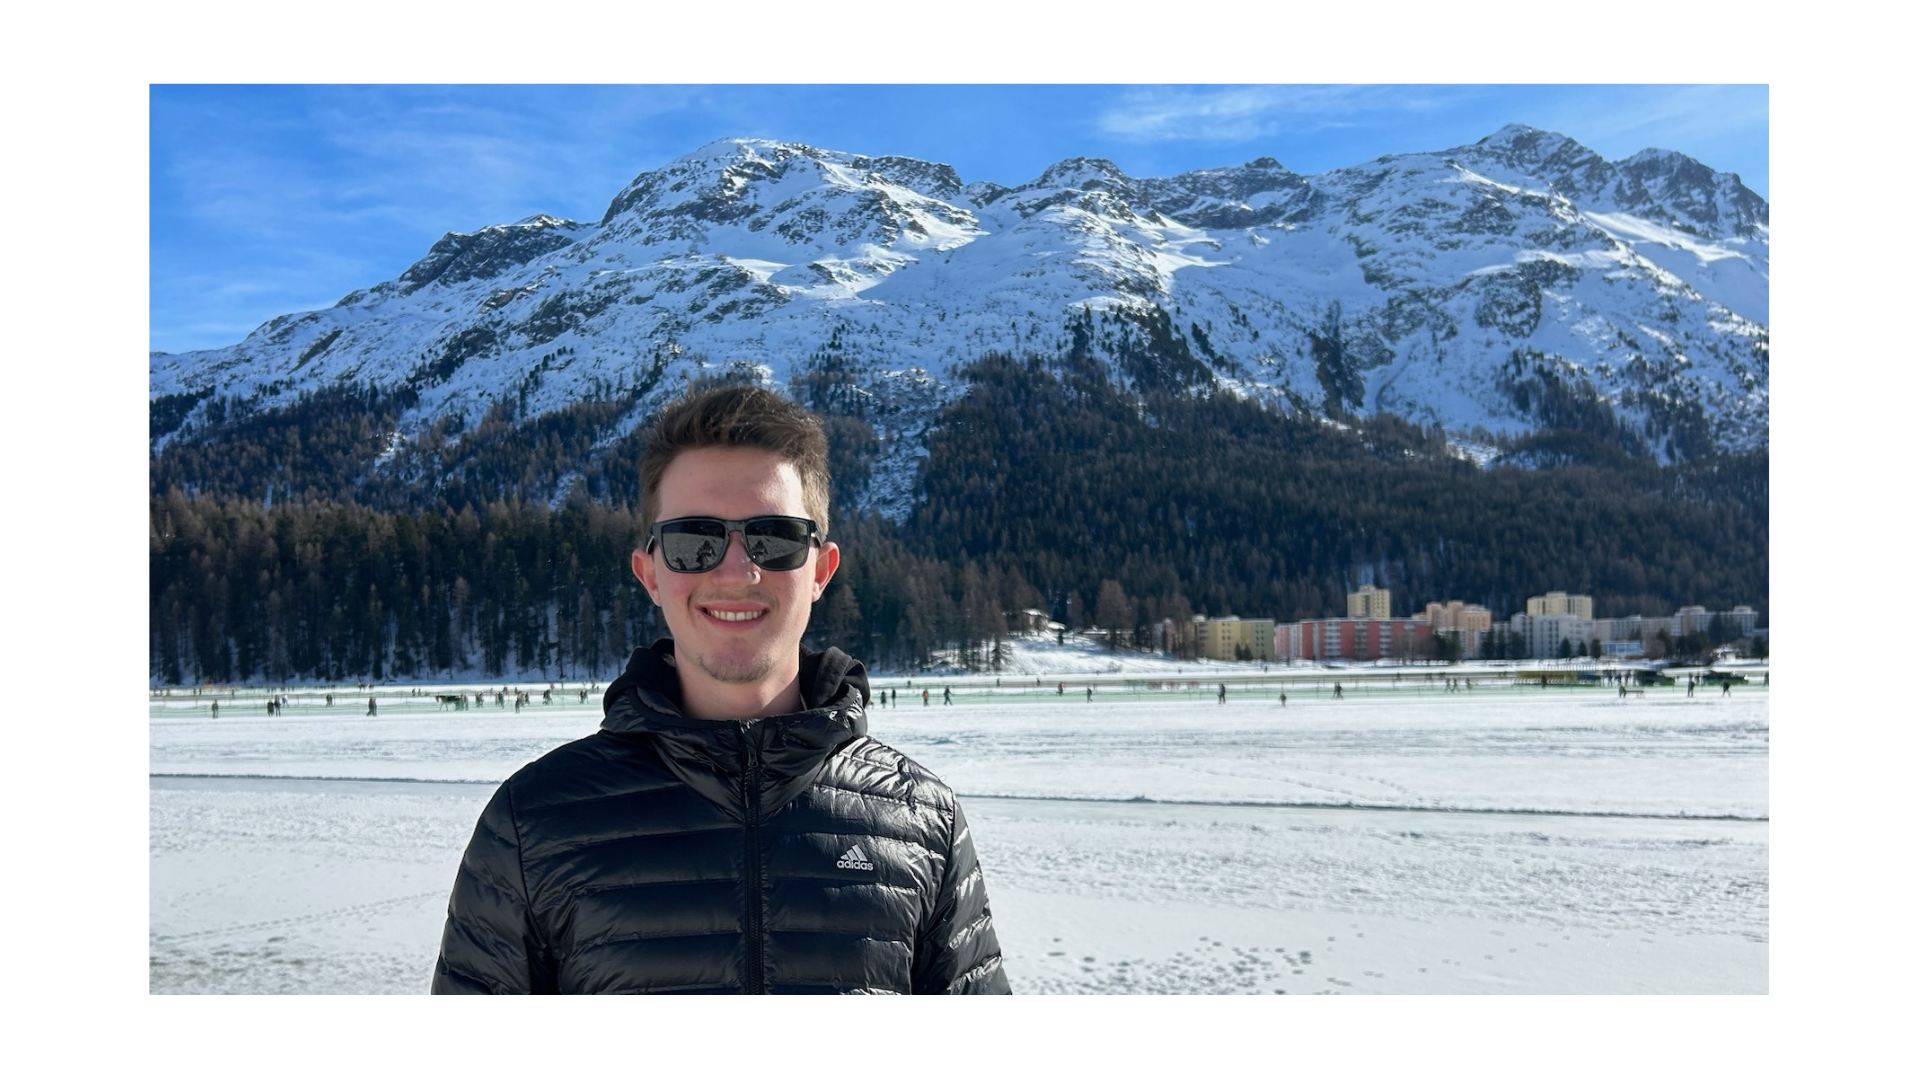
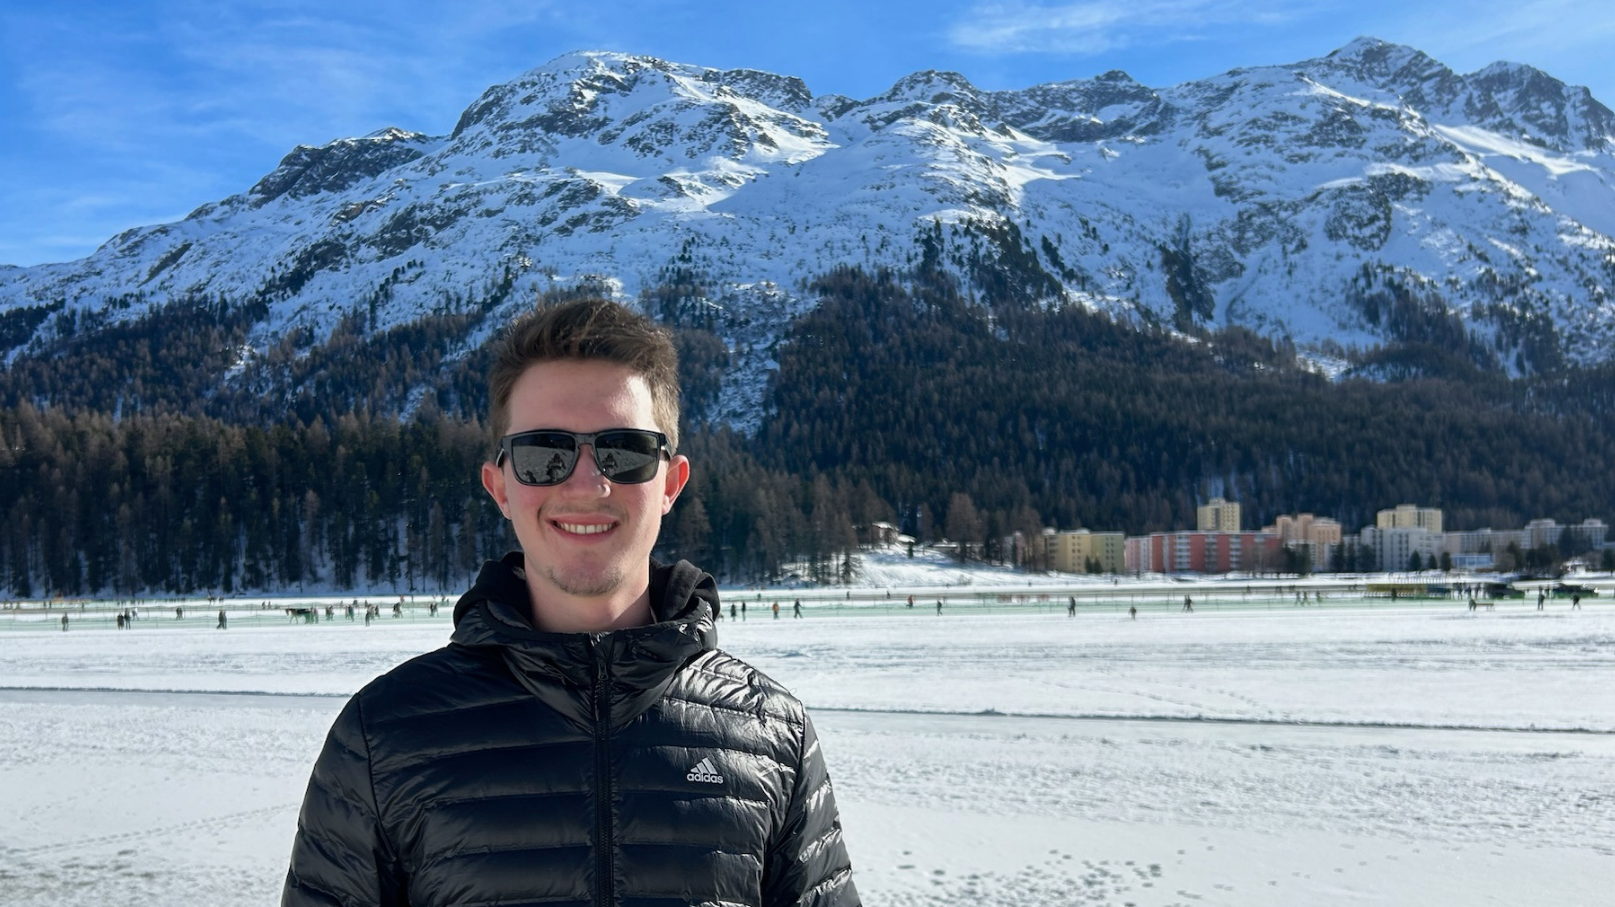
Alteracoes minimas

diff --git a/assets/css/styles.css b/assets/css/styles.css
@@ -12,7 +12,7 @@ body {
     overflow-x: hidden;
 }
 
-/* Cabeçalho fixo e responsivo */
+/* Cabeçalho fixo */
 header {
     position: fixed;
     top: 0;
@@ -30,15 +30,7 @@ header.shrink {
     padding: 10px 30px;
 }
 
-/* Ícones sociais */
-.social-icons a {
-    color: #333;
-    font-size: 20px;
-    margin-right: 15px;
-    text-decoration: none;
-}
-
-/* Links da navegação em linha */
+/* Links do menu na esquerda */
 nav ul {
     list-style: none;
     display: flex;
@@ -56,23 +48,34 @@ nav ul li a {
     transition: color 0.3s;
 }
 
-nav ul li a.active,
-nav ul li a:hover {
+/* Destacar a página ativa */
+nav ul li a.active {
     color: #91E8DD;
+    font-weight: bold;
 }
 
-/* Menu responsivo */
-.menu-toggle {
-    display: none;
-    font-size: 24px;
-    cursor: pointer;
+/* Ícones sociais */
+.social-icons {
+    display: flex;
+    gap: 15px;
 }
 
-/* Seção principal com a imagem */
+.social-icons a {
+    color: #333;
+    font-size: 20px;
+    text-decoration: none;
+}
+
+/* Ajustando posição */
+header nav {
+    flex: 1;
+}
+
+/* Seção principal com imagem */
 .hero {
     width: 100%;
     height: 100vh;
-    background: url('../images/ImagemNeveEditada.png') no-repeat center center/cover;
+    background: url('../images/imagem_que_quero.jpg') no-repeat center center/cover;
     display: flex;
     align-items: center;
     justify-content: center;

diff --git a/assets/js/script.js b/assets/js/script.js
@@ -1,18 +1,32 @@
 // Função para carregar HTML de outro arquivo
-function loadComponent(id, file) {
+function loadComponent(id, file, callback) {
     fetch(file)
         .then(response => response.text())
         .then(data => {
             document.getElementById(id).innerHTML = data;
+            if (callback) callback();
         })
         .catch(error => console.log('Erro ao carregar ' + file, error));
 }
 
 // Carregar Header e Footer
 document.addEventListener("DOMContentLoaded", function () {
-    loadComponent("header-container", "header.html");
+    loadComponent("header-container", "header.html", highlightActivePage);
     loadComponent("footer-container", "footer.html");
 });
+
+// Destacar a página ativa no menu
+function highlightActivePage() {
+    let currentPage = window.location.pathname.split("/").pop(); // Obtém o nome do arquivo
+    if (!currentPage) currentPage = "index.html"; // Caso esteja na home
+
+    let links = document.querySelectorAll("nav ul li a");
+    links.forEach(link => {
+        if (link.getAttribute("href") === currentPage) {
+            link.classList.add("active");
+        }
+    });
+}
 
 // Redução do cabeçalho ao rolar
 window.addEventListener("scroll", function () {

diff --git a/index.html b/index.html
@@ -15,7 +15,7 @@
     <div class="hero">
         <div class="overlay"></div>
         <div class="content">
-            <h1>Seu Nome</h1>
+            <h1>PIETRO COMIN</h1>
             <p>Estudante de Ciência da Computação <br> UFPR</p>
         </div>
     </div>
@@ -26,5 +26,3 @@
 </html>
 
 
-<a href="https://www.instagram.com/pietro.comin?igsh=NzVtNTF6ZXNqb3pl&utm_source=qr" target="_blank"><i class="fab fa-instagram"></i></a>
-<a href="https://www.linkedin.com/in/pietro-comin-b5496026a?utm_source=share&utm_campaign=share_via&utm_content=profile&utm_medium=ios_app" target="_blank"><i class="fab fa-linkedin"></i></a>
